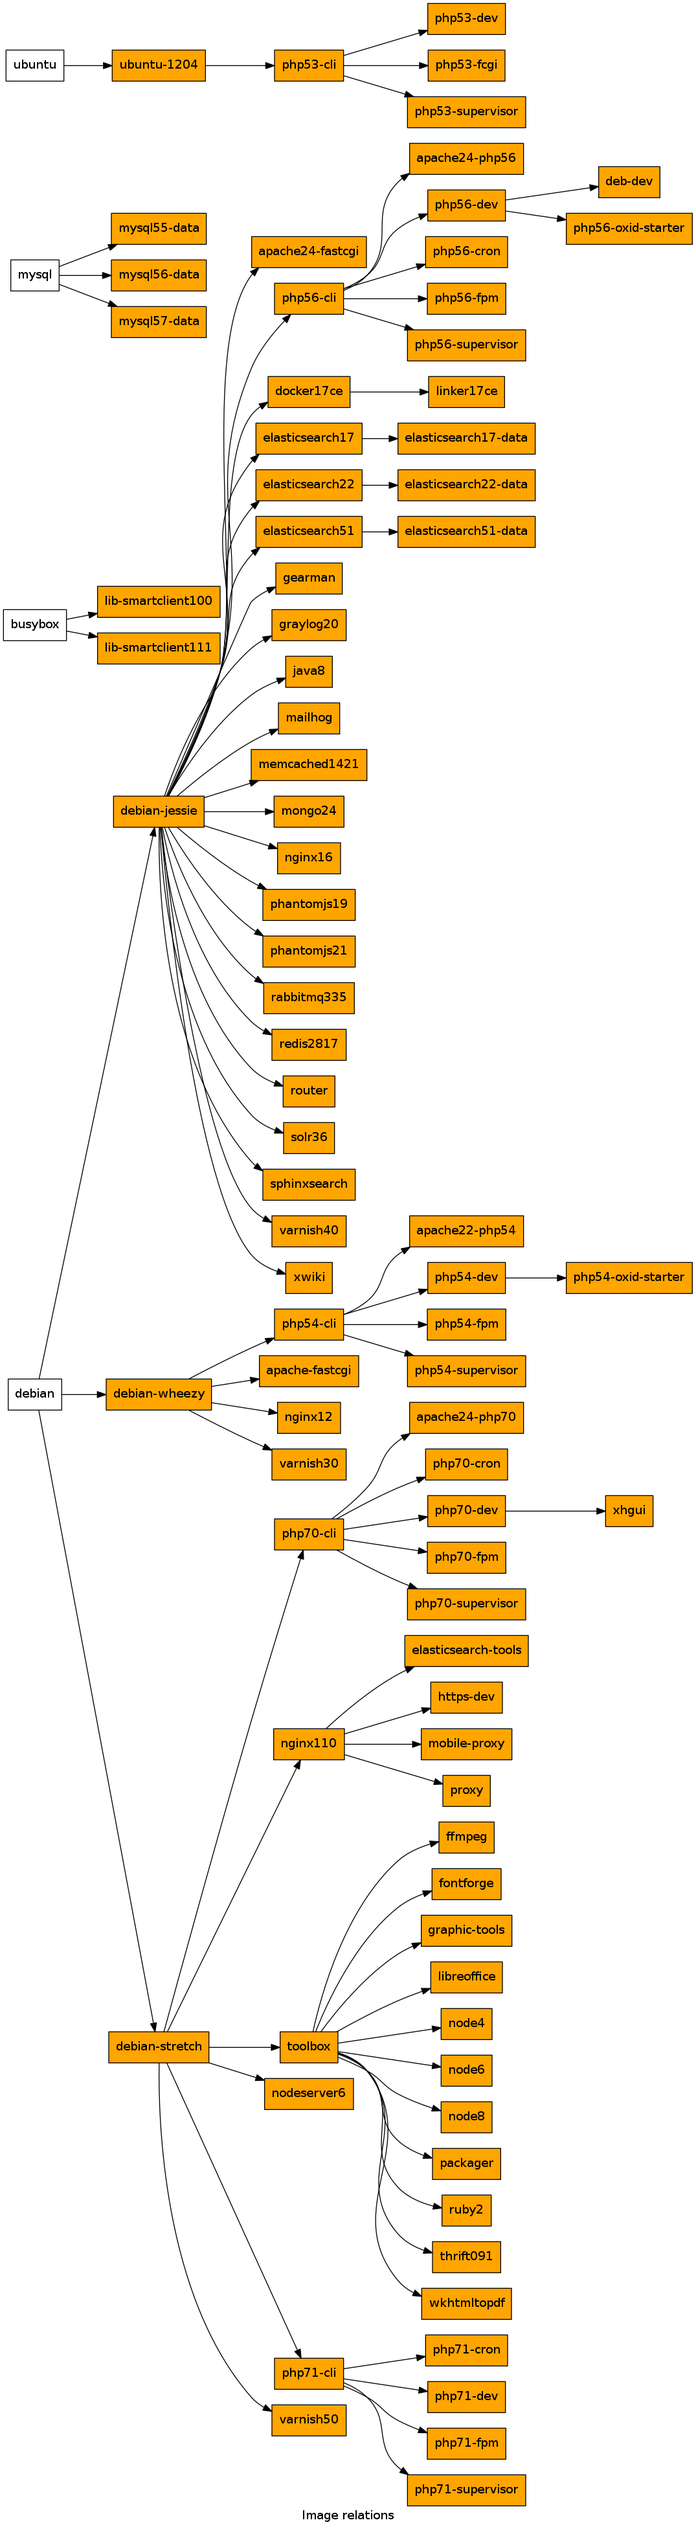
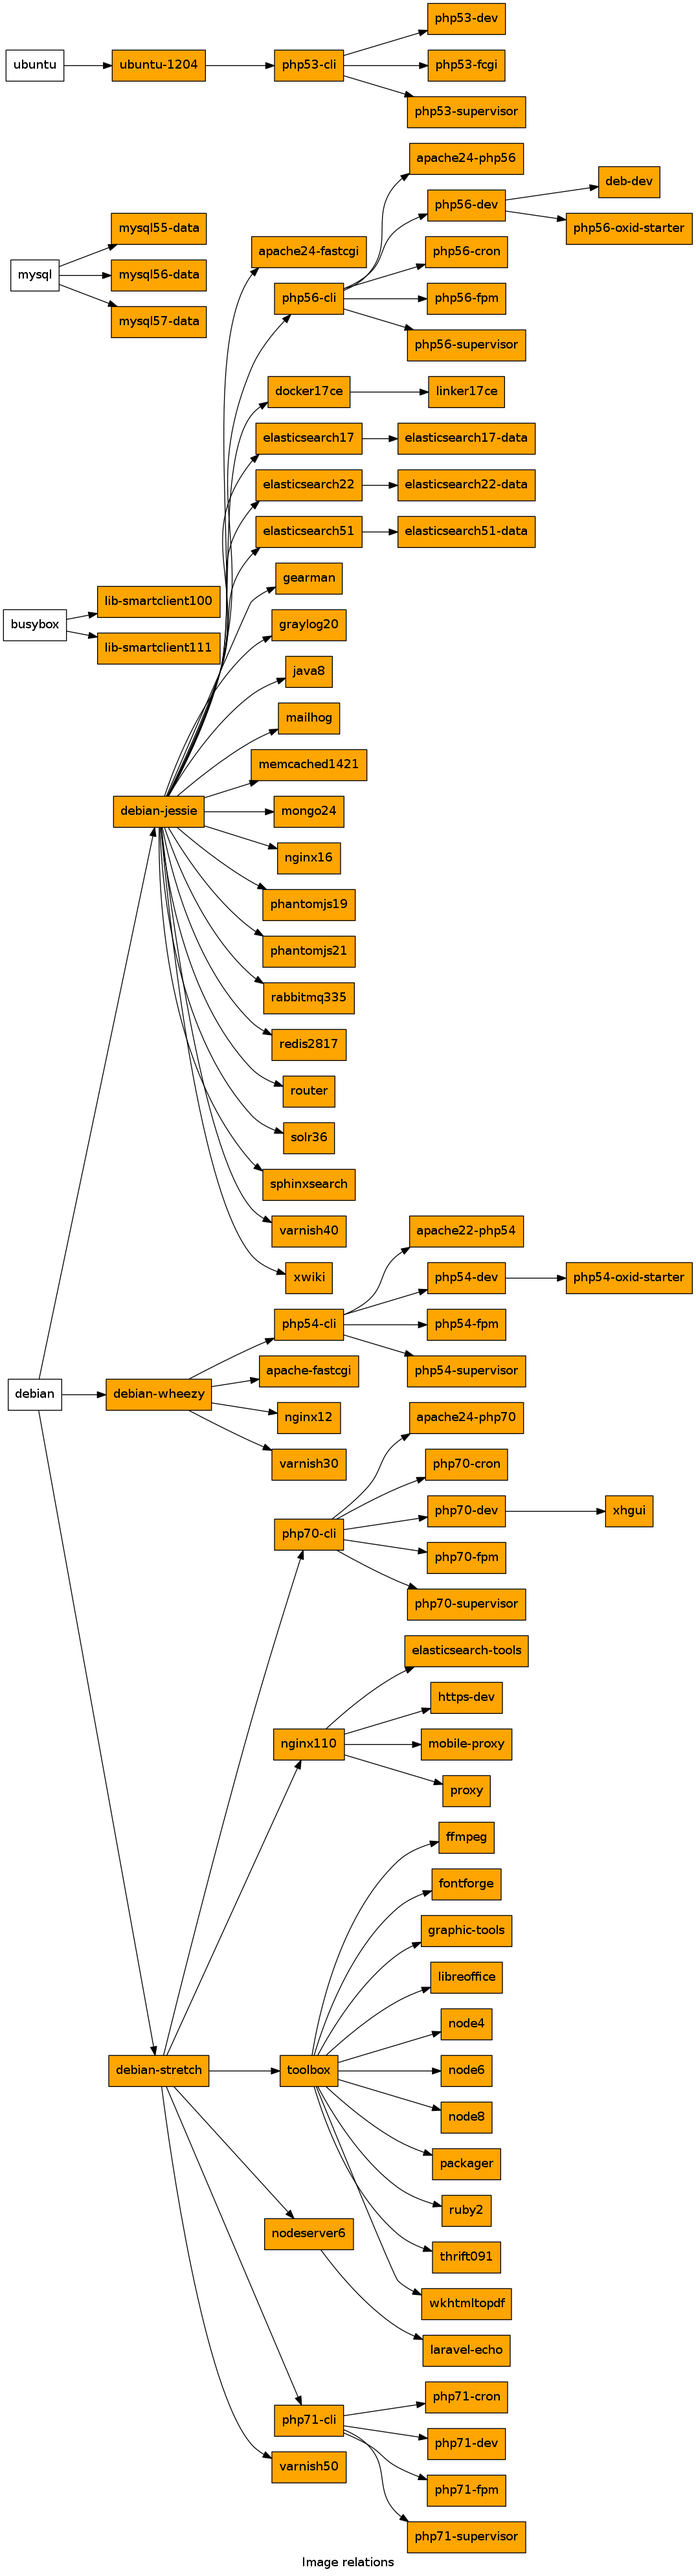
adding laravel-echo-server image

diff --git a/laravel-echo/README.md b/laravel-echo/README.md
@@ -1,0 +1,9 @@
+
+## Description
+
+This is simple laravel-echo-server that listens on port 80.
+
+## Dependencies
+
+This image expects redis server with hostname "redis" to be accessible.
+
